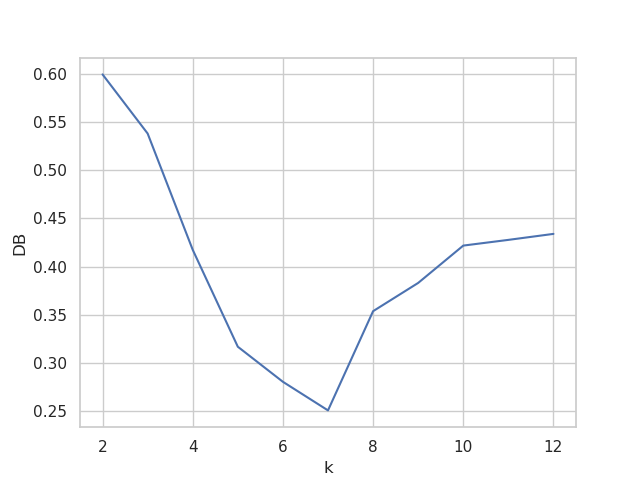
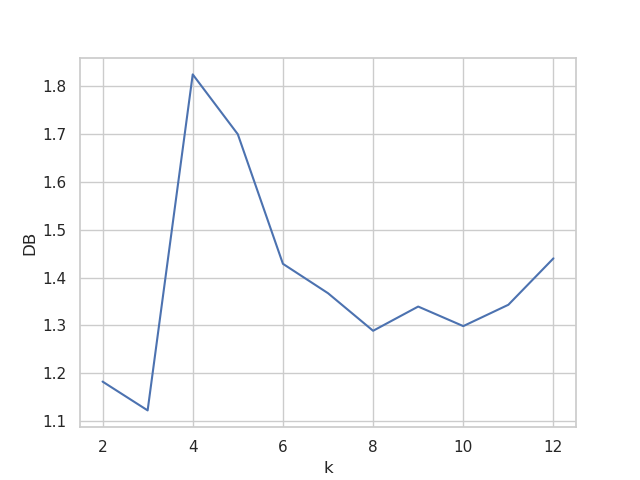
Add new results

diff --git a/mlp2.py b/mlp2.py
@@ -1,0 +1,58 @@
+import os
+import pandas as pd
+import numpy as np
+from ingestion import get_raw, get_pca
+from sklearn.neural_network import MLPClassifier
+from sklearn.preprocessing import StandardScaler
+from sklearn.model_selection import StratifiedKFold, GridSearchCV
+from sklearn.pipeline import Pipeline
+from sklearn.metrics import accuracy_score
+
+
+os.makedirs("results/mlp", exist_ok=True)
+
+def mlp(ingest, scale):
+
+    X, X_test, y, y_test = ingest()
+
+    params = {
+            'classifier__hidden_layer_sizes' : [(46,)],        
+            'classifier__max_iter' :  [1000],
+            'classifier__learning_rate_init' : [0.01]
+    }
+    pipe_steps = []
+    if scale:
+        pipe_steps.append(('scale', StandardScaler()))
+    pipe_steps.append(('classifier', MLPClassifier(solver='sgd',momentum= 0.8,nesterovs_momentum= False)))
+    pipe = Pipeline(pipe_steps)
+    
+    kfold = StratifiedKFold(10, shuffle=True)
+    cv_grid = GridSearchCV(pipe, params, scoring='accuracy',return_train_score=True, cv=kfold, verbose=1, n_jobs=-1)
+    cv_grid.fit(X,y)
+
+    cv_result = pd.DataFrame(cv_grid.cv_results_)
+
+    test_scores = []
+    for params in cv_result["params"]:
+        pipe = pipe.set_params(**params).fit(X, y)
+        y_pred = pipe.predict(X_test)
+
+        score = accuracy_score(y_test, y_pred)
+        test_scores.append(score)
+
+    cv_result['holdout_test_score'] = pd.Series(
+        test_scores, index=cv_result.index)
+
+    return cv_result
+
+datasets = [('raw', get_raw), ('pca', get_pca)]
+for data_name, data_func in datasets:
+    for scale in (True, False):
+        for i in range(10):
+            result = mlp(data_func, scale)
+            filename = "mlp_result_" + data_name + "_"
+            filename += "scaled" if scale else "not_scaled"
+            filename += "_"+str(i)
+            result.to_csv("results/mlp/" + filename + ".csv")
+            print(filename, "done")
+

diff --git a/hierac_PCA.py b/hierac_PCA.py
@@ -1,10 +1,9 @@
 import os
 import pandas as pd
 import numpy as np
-from ingestion import get_raw, get_pca ,get_data
+from ingestion import get_raw, get_pca, get_full_pca
 from sklearn.cluster import AgglomerativeClustering
 from sklearn.metrics import davies_bouldin_score
-from sklearn.preprocessing import StandardScaler
 import warnings
 import matplotlib.pyplot as plt
 import seaborn as sns
@@ -13,10 +12,7 @@ sns.set(style="whitegrid")
 warnings.filterwarnings('ignore')
 os.makedirs("results/hierac", exist_ok=True)
 
-X, y= get_data()
-scaler = StandardScaler()
-X = pd.DataFrame(scaler.fit_transform(X))
-
+X, y = get_full_pca()
 attr_sz = len(np.unique(y))
 print(attr_sz)
 k_dict = {}
@@ -28,8 +24,8 @@ for k in range(2,13):
 	k_dict[k] = davies_bouldin_score(X,labels)
 
 df = pd.DataFrame.from_dict(k_dict, orient='index')
-df.to_csv('results/hierac/hierac.csv')
+df.to_csv('results/hierac/hierac_PCA.csv')
 
 ax = sns.lineplot(x=list(k_dict.keys()), y=list(k_dict.values()))
 ax.set(xlabel = 'k', ylabel = 'DB')
-plt.savefig('results/hierac/hierac.png')
+plt.savefig('results/hierac/hierac_PCA.png')

diff --git a/kmeans_pca.py b/kmeans_pca.py
@@ -1,10 +1,9 @@
 import os
 import pandas as pd
 import numpy as np
-from ingestion import get_raw, get_pca ,get_data
+from ingestion import get_raw, get_pca, get_full_pca
 from sklearn.cluster import KMeans
 from sklearn.metrics import davies_bouldin_score
-from sklearn.preprocessing import StandardScaler
 import warnings
 import matplotlib.pyplot as plt
 import seaborn as sns
@@ -13,10 +12,7 @@ sns.set(style="whitegrid")
 warnings.filterwarnings('ignore')
 os.makedirs("results/kmeans", exist_ok=True)
 
-X,y = get_data()
-scaler = StandardScaler()
-X = pd.DataFrame(scaler.fit_transform(X))
-
+X, y = get_full_pca()
 attr_sz = len(np.unique(y))
 print(attr_sz)
 k_dict = {}
@@ -31,7 +27,7 @@ for k in range(2,13):
 	k_dict[k] = np.array(db_values).sum()/5
 
 df = pd.DataFrame.from_dict(k_dict, orient='index')
-df.to_csv('results/kmeans/kmeans.csv')
+df.to_csv('results/kmeans/kmeans_PCA.csv')
 ax = sns.lineplot(x=list(k_dict.keys()), y=list(k_dict.values()))
 ax.set(xlabel = 'k', ylabel = 'DB')
-plt.savefig('results/kmeans/kmeans.png')
+plt.savefig('results/kmeans/kmeans_PCA.png')
